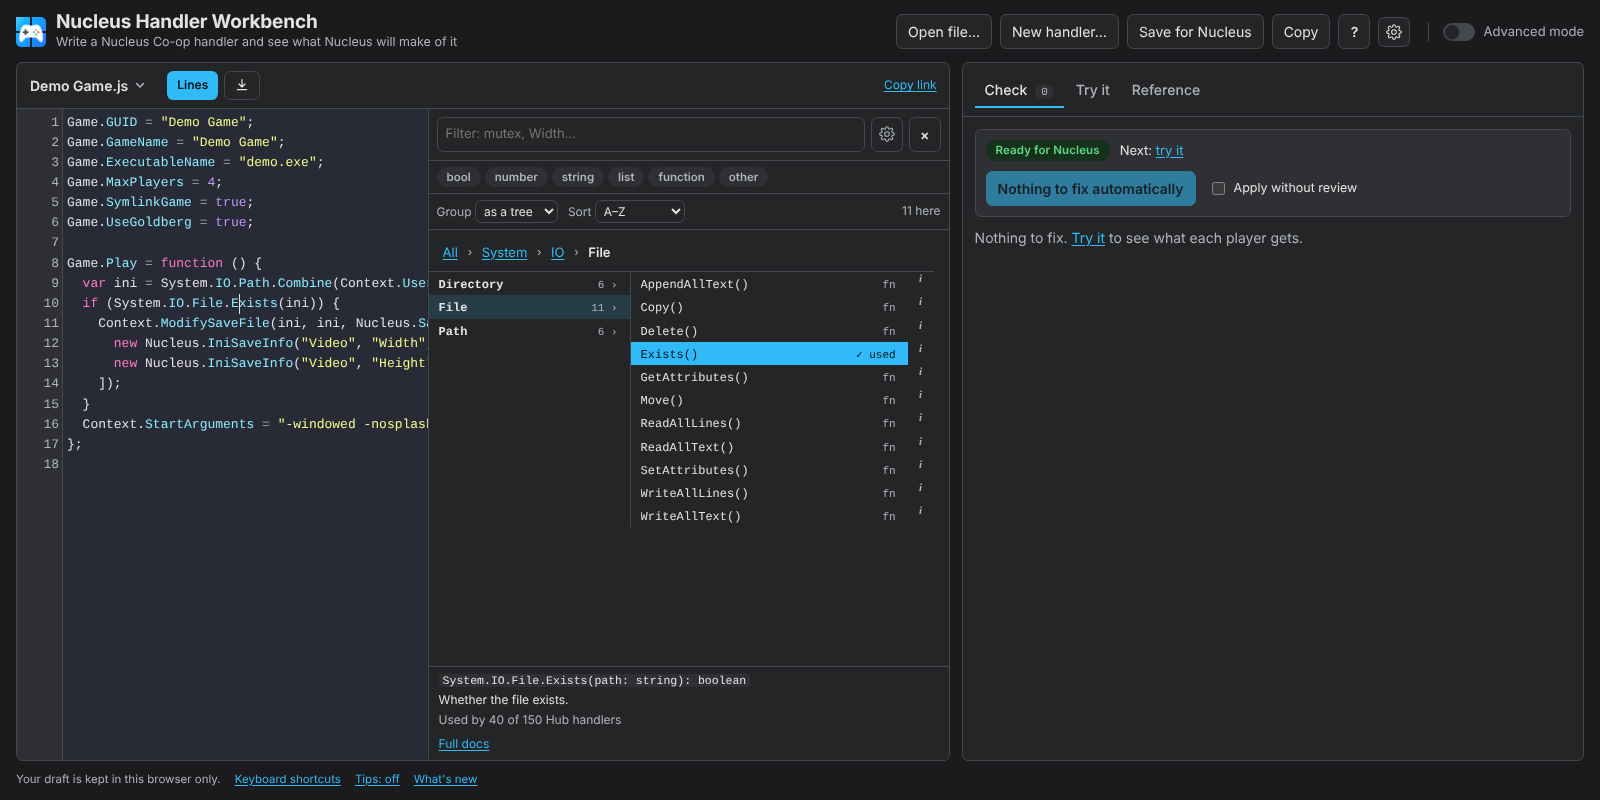
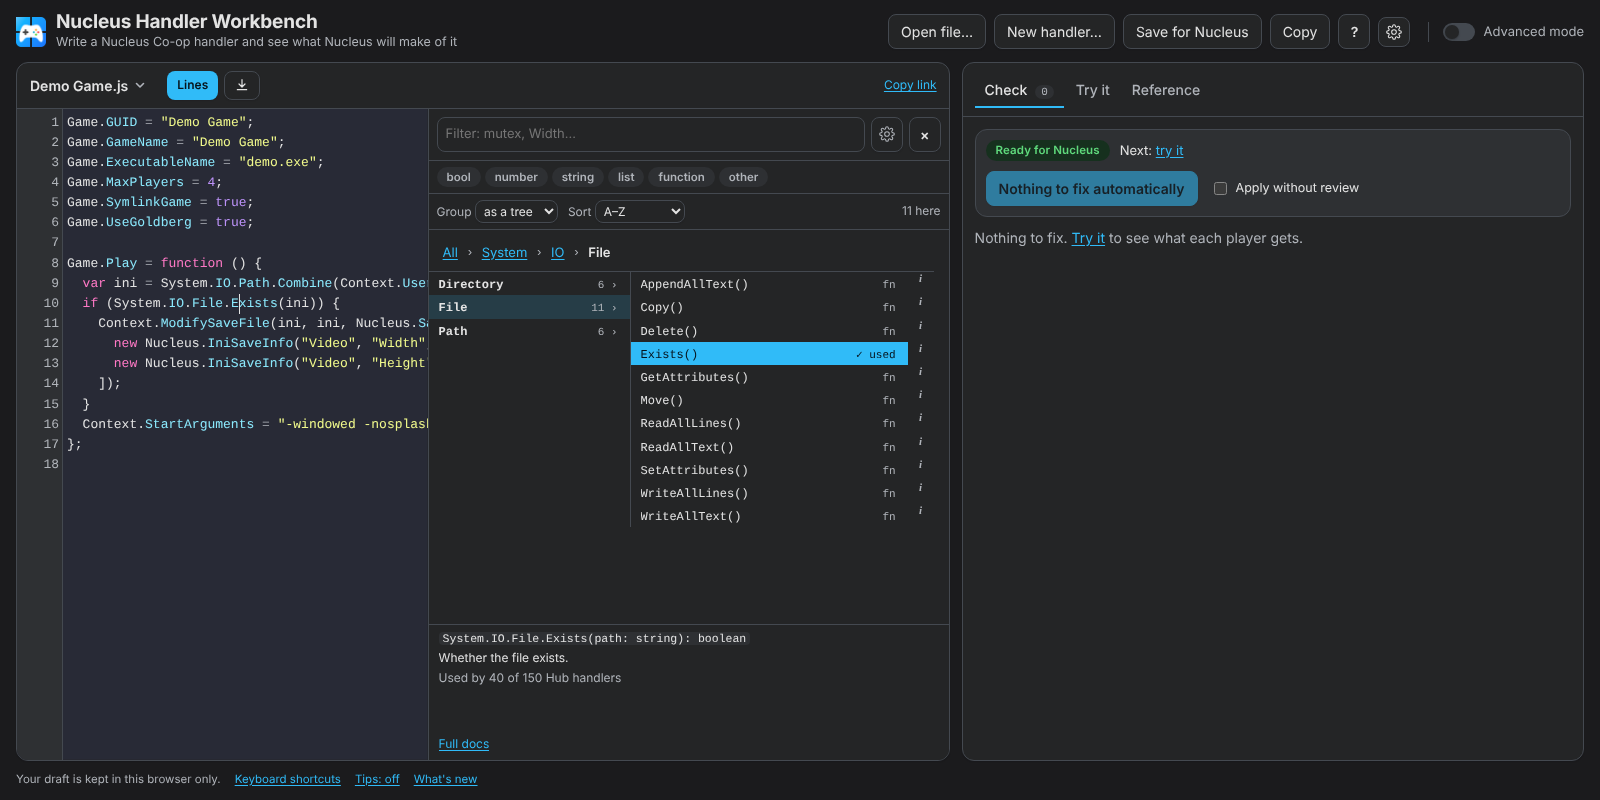
Redesign: shared tokens across the workbench and start page; Lines previews docs in Reference
One spacing/radius/type/elevation scale; softer panes, buttons, Check cards
with a rounded severity bar, dialogs with shadow and open motion (sheets slide
up on phones; reduced motion respected). Hovering a name in Lines with the
Reference tab open (wide screens, empty search) shows its docs there
(suggested by messenils). Screenshots retaken in light and dark.

Claude-Session: https://claude.ai/code/session_0176z2bCvwUXMSQ8ZHn5TiTv

Changed region(s): [[0.2812, 0.7812, 0.4688, 0.9062], [0.5625, 0.0312, 0.8438, 0.0625], [0.625, 0.2188, 0.8438, 0.25]]

diff --git a/playground/src/page.html b/playground/src/page.html
@@ -23,7 +23,14 @@ try { if (localStorage.getItem('nucleus-workbench-dev-site') === 'v3') document.
   --font-body: system-ui, -apple-system, "Segoe UI", Roboto, Ubuntu, Cantarell, "Noto Sans", sans-serif;
   --font-mono: SFMono-Regular, Menlo, Monaco, Consolas, "Liberation Mono", "Courier New", monospace;
   --display-stretch: 100%; --display-weight: 700;
-  --r-pane: 6.4px; --r-ctl: 6.4px; --r-tag: 999px;
+  --r-pane: 12px; --r-ctl: 8px; --r-tag: 999px;
+  /* One scale for the whole workbench and the start page: spacing, radius, type, elevation. */
+  --sp-1: 4px; --sp-2: 8px; --sp-3: 12px; --sp-4: 16px; --sp-5: 24px;
+  --r-sm: 6px; --r-lg: 14px;
+  --fs-xs: 11.5px; --fs-sm: 12.5px; --fs-md: 14px; --fs-lg: 17px;
+  --sh-1: 0 1px 2px rgba(15, 23, 42, .06), 0 1px 1px rgba(15, 23, 42, .03);
+  --sh-2: 0 24px 64px rgba(0, 0, 0, .28), 0 2px 8px rgba(0, 0, 0, .12);
+  --ease: cubic-bezier(.2, .9, .3, 1);
 }
 @media (prefers-color-scheme: dark) { :root:not([data-theme="light"]) {
   /* splitscreen.me, dark */
@@ -111,9 +118,11 @@ h1 { font: var(--display-weight) 19px/1.1 var(--font-display); font-stretch: var
 .toolbar { display: flex; flex-wrap: wrap; gap: 8px; margin-left: auto; align-items: center; }
 button, select, input { font: inherit; color: inherit; }
 a.btn { text-decoration: none; color: var(--fg); display: inline-block; }
-.btn, select { background: var(--surface); border: 1px solid var(--line); border-radius: var(--r-ctl); padding: 6px 11px; cursor: pointer; }
-.btn:hover, select:hover { border-color: var(--accent); }
+.btn, select { background: var(--surface); border: 1px solid var(--line); border-radius: var(--r-ctl); padding: 6px 12px; cursor: pointer; box-shadow: var(--sh-1); transition: background-color .12s, border-color .12s, filter .12s; }
+.btn:hover, select:hover { border-color: color-mix(in srgb, var(--fg) 28%, var(--line)); background-color: color-mix(in srgb, var(--fg) 4%, var(--surface)); }
+.btn:active { filter: brightness(.96); }
 .btn.primary { background: var(--accent); color: var(--accent-fg); border-color: var(--accent); font-weight: 600; }
+.btn.primary:hover { background: color-mix(in srgb, var(--accent) 88%, var(--fg)); border-color: transparent; }
 :focus-visible { outline: 2px solid var(--accent); outline-offset: 2px; }
 
 .main { flex: 1; min-height: 0; display: grid; grid-template-columns: minmax(0, 1.15fr) 12px minmax(0, 1fr); gap: 0; }
@@ -128,7 +137,7 @@ a.btn { text-decoration: none; color: var(--fg); display: inline-block; }
 .sheet-grip { display: none; }
 body.resizing, body.resizing * { cursor: col-resize !important; user-select: none !important; }
 body.resizing-v, body.resizing-v * { cursor: row-resize !important; user-select: none !important; }
-.pane { min-width: 0; min-height: 0; display: flex; flex-direction: column; background: var(--surface); border: 1px solid var(--line); border-radius: var(--r-pane); overflow: hidden; }
+.pane { min-width: 0; min-height: 0; display: flex; flex-direction: column; background: var(--surface); border: 1px solid var(--line); border-radius: var(--r-pane); overflow: hidden; box-shadow: var(--sh-1); }
 .pane-head { display: flex; align-items: center; gap: 10px; flex-wrap: wrap; padding: 8px 12px; border-bottom: 1px solid var(--line); min-height: 40px; box-sizing: border-box; }
 #status { display: flex; gap: 10px; align-items: center; flex-wrap: wrap; font-size: 12.5px; }
 .code-row { flex: 1; min-height: 0; display: flex; position: relative; }
@@ -304,7 +313,7 @@ body.resizing-v, body.resizing-v * { cursor: row-resize !important; user-select:
 .set-waka-row { display: flex; gap: 10px; align-items: center; flex-wrap: wrap; }
 #settings-dialog h2 { margin: 0 0 6px; font-size: 18px; }
 .set-sec { border-top: 1px solid var(--line); padding: 10px 0 8px; display: flex; flex-direction: column; gap: 4px; align-items: flex-start; }
-.set-sec h3 { margin: 0 0 2px; font-size: 13px; color: var(--muted); text-transform: uppercase; letter-spacing: .04em; }
+.set-sec h3 { margin: 0 0 2px; font-size: 13px; font-weight: 600; color: var(--muted); }
 .set-sec summary { cursor: pointer; font-weight: 600; color: var(--muted); }
 details.set-sec[open] summary { margin-bottom: 4px; }
 .set-radios { display: flex; flex-wrap: wrap; gap: 4px 16px; }
@@ -398,8 +407,10 @@ a { color: var(--accent); }
 .empty { color: var(--muted); }
 
 #problems { list-style: none; margin: 0; padding: 0; display: flex; flex-direction: column; gap: 8px; }
-.problem { display: grid; grid-template-columns: auto minmax(0, 1fr); gap: 10px; padding: 8px 10px; border: 1px solid var(--line); border-left: 3px solid var(--line); border-radius: var(--r-ctl); }
-.problem.error { border-left-color: var(--err); } .problem.warning { border-left-color: var(--warn); } .problem.info, .problem.hint { border-left-color: var(--info); }
+/* Check cards: soft cards with a rounded severity bar instead of a hard left border. */
+.problem { --sev: var(--line); position: relative; display: grid; grid-template-columns: auto minmax(0, 1fr); gap: 10px; padding: 10px 12px 10px 18px; border: 1px solid var(--line); border-radius: var(--r-pane); background: var(--surface); box-shadow: var(--sh-1); }
+.problem::before { content: ""; position: absolute; left: 7px; top: 10px; bottom: 10px; width: 3px; border-radius: 3px; background: var(--sev); }
+.problem.error { --sev: var(--err); } .problem.warning { --sev: var(--warn); } .problem.info, .problem.hint { --sev: var(--info); }
 .loc { font: 12px var(--font-mono); background: none; border: 0; color: var(--accent); cursor: pointer; padding: 0; height: fit-content; font-variant-numeric: tabular-nums; }
 .msg { overflow-wrap: anywhere; }
 .meta { display: flex; flex-wrap: wrap; gap: 6px; align-items: center; margin-top: 4px; }
@@ -442,8 +453,14 @@ table { border-collapse: collapse; width: 100%; }
 input.secret:not(.shown) { -webkit-text-security: disc; text-security: disc; }
 #open-body .entry .t .keys { float: right; display: inline-flex; gap: 3px; margin-left: 12px; font-weight: 400; }
 #open-body .entry .t .keys kbd { font: 11px var(--font-mono); padding: 1px 5px; border: 1px solid var(--line); border-radius: 4px; background: var(--surface-2); color: var(--muted); }
-dialog { border: 1px solid var(--line); border-radius: var(--r-pane); background: var(--surface); color: var(--fg); padding: 18px; width: min(520px, calc(100vw - 32px)); box-sizing: border-box; }
-dialog::backdrop { background: rgba(10, 15, 22, .45); }
+dialog { border: 1px solid var(--line); border-radius: var(--r-lg); background: var(--surface); color: var(--fg); padding: 20px; width: min(520px, calc(100vw - 32px)); box-sizing: border-box; box-shadow: var(--sh-2); }
+dialog::backdrop { background: rgba(10, 15, 22, .45); backdrop-filter: blur(2px); }
+/* Dialogs fade and rise a little as they open (sheets slide up on phones: see the 600px block). */
+@media (prefers-reduced-motion: no-preference) {
+  dialog[open] { animation: dialog-in .18s var(--ease); }
+  dialog[open]::backdrop { animation: backdrop-in .18s ease-out; }
+  @keyframes dialog-in { from { opacity: 0; transform: translateY(6px) scale(.985); } }
+}
 dialog h2 { font: 600 17px var(--font-display); margin: 0 0 12px; }
 .field { display: flex; flex-direction: column; gap: 4px; margin-bottom: 10px; }
 .field input { padding: 7px 9px; border: 1px solid var(--line); border-radius: var(--r-ctl); background: var(--code-bg); }
@@ -719,7 +736,7 @@ kbd { font: 11px var(--font-mono); border: 1px solid var(--line); border-bottom-
   /* Examples: the full height, for the long list */
   #open-dialog { width: 100vw; max-width: 100vw; top: 0; height: 100dvh; max-height: 100dvh; margin: 0; border-radius: 0; border: 0; padding: 0 0 env(safe-area-inset-bottom, 0px); box-shadow: none; }
   #open-dialog::before { display: none; }
-  @media (prefers-reduced-motion: no-preference) { #open-dialog[open] { animation-name: sheet-in; } @keyframes sheet-in { from { opacity: 0; transform: translateY(24px); } } }
+  @media (prefers-reduced-motion: no-preference) { dialog[open], #open-dialog[open] { animation-name: sheet-in; } @keyframes sheet-in { from { opacity: 0; transform: translateY(24px); } } }
   .open-head { padding: 4px 8px 4px 14px; }
   #open-close { padding: 8px 12px; font-size: 13px; }
   #open-close .k-esc, .open-foot { display: none; } #open-close .k-close { display: inline; }

diff --git a/playground/src/start.html b/playground/src/start.html
@@ -34,6 +34,10 @@ try { var m = localStorage.getItem('nucleus-workbench-dev-mode'); if (m === 'lig
   --accent: #0c76a5; --accent-fg: #fff; --brand: #10a3e8; --code-bg: #ebedf0;
   --font: system-ui, -apple-system, "Segoe UI", Roboto, Ubuntu, Cantarell, "Noto Sans", sans-serif;
   --mono: SFMono-Regular, Menlo, Monaco, Consolas, "Liberation Mono", monospace;
+  /* The workbench's scale (page.html): radius, elevation. */
+  --r-sm: 6px; --r-ctl: 8px; --r-pane: 12px; --r-lg: 14px;
+  --sh-1: 0 1px 2px rgba(15, 23, 42, .06), 0 1px 1px rgba(15, 23, 42, .03);
+  --sh-2: 0 12px 32px rgba(15, 23, 42, .12), 0 2px 6px rgba(15, 23, 42, .06);
 }
 @media (prefers-color-scheme: dark) { :root:not([data-theme="light"]) {
   --bg: #1b1b1d; --surface: #242526; --line: #444950; --fg: #e3e3e3; --muted: #b0b4ba;
@@ -49,30 +53,32 @@ h1 { font-size: clamp(28px, 5vw, 40px); line-height: 1.15; margin: 6px 0 12px; }
 h2 { font-size: 22px; margin: 44px 0 12px; }
 h3 { font-size: 17px; margin: 0 0 6px; }
 p { margin: 0 0 12px; }
-code, kbd { font-family: var(--mono); font-size: .9em; background: var(--code-bg); padding: 1px 5px; border-radius: 4px; }
+code, kbd { font-family: var(--mono); font-size: .9em; background: var(--code-bg); padding: 1px 5px; border-radius: var(--r-sm); }
 .kicker { display: inline-block; font-size: 13px; font-weight: 700; letter-spacing: .04em; text-transform: uppercase; color: var(--accent); }
 .lede { font-size: 18px; color: var(--muted); max-width: 62ch; }
 .ctas { display: flex; flex-wrap: wrap; gap: 10px; margin: 20px 0 8px; }
-.btn { display: inline-flex; align-items: center; min-height: 44px; padding: 10px 18px; border-radius: 6.4px; font-weight: 700; text-decoration: none; border: 1px solid var(--line); color: var(--fg); background: var(--surface); }
+.btn { display: inline-flex; align-items: center; min-height: 44px; padding: 10px 18px; border-radius: var(--r-ctl); font-weight: 700; text-decoration: none; border: 1px solid var(--line); color: var(--fg); background: var(--surface); box-shadow: var(--sh-1); transition: filter .12s, transform .12s, box-shadow .12s; }
 .btn.primary { background: var(--accent); color: var(--accent-fg); border-color: transparent; }
-.btn:hover { filter: brightness(1.08); }
+.btn:hover { filter: brightness(1.06); box-shadow: var(--sh-2); }
+@media (prefers-reduced-motion: no-preference) { .btn:hover { transform: translateY(-1px); } }
 .btn:focus-visible, a:focus-visible { outline: 3px solid var(--brand); outline-offset: 2px; }
 .small { font-size: 14px; color: var(--muted); }
 .shots { display: grid; grid-template-columns: repeat(2, minmax(0, 1fr)); gap: 16px; margin-top: 8px; }
 .after-shots { margin-top: 28px; }
-figure { margin: 0; background: var(--surface); border: 1px solid var(--line); border-radius: 8px; overflow: hidden; }
+figure { margin: 0; background: var(--surface); border: 1px solid var(--line); border-radius: var(--r-pane); overflow: hidden; box-shadow: var(--sh-1); }
 figure a { display: block; }
 figure img { display: block; width: 100%; height: auto; }
 figure a:focus-visible { outline-offset: -3px; }
 figcaption { padding: 10px 12px; font-size: 14px; color: var(--muted); }
 figcaption strong { color: var(--fg); }
 .cards { display: grid; grid-template-columns: repeat(3, minmax(0, 1fr)); gap: 16px; }
-.card { background: var(--surface); border: 1px solid var(--line); border-radius: 8px; padding: 16px; }
+.card { background: var(--surface); border: 1px solid var(--line); border-radius: var(--r-pane); padding: 18px; box-shadow: var(--sh-1); }
 .card p:last-child, .card ol:last-child { margin-bottom: 0; }
 ol, ul { margin: 0 0 12px; padding-left: 22px; }
 li { margin: 4px 0; }
 .facts { list-style: none; padding: 0; display: grid; gap: 8px; }
-.facts li { background: var(--surface); border: 1px solid var(--line); border-left: 3px solid var(--brand); border-radius: 6px; padding: 10px 12px; margin: 0; }
+.facts li { position: relative; background: var(--surface); border: 1px solid var(--line); border-radius: var(--r-pane); padding: 10px 14px 10px 20px; margin: 0; box-shadow: var(--sh-1); }
+.facts li::before { content: ""; position: absolute; left: 8px; top: 10px; bottom: 10px; width: 3px; border-radius: 3px; background: var(--brand); }
 footer { max-width: 980px; margin: 0 auto; padding: 16px 16px 40px; border-top: 1px solid var(--line); }
 main { padding-bottom: 32px; }
 @media (max-width: 760px) { .shots, .cards { grid-template-columns: 1fr; } main { padding-top: 20px; } }

diff --git a/playground/src/lines-ui.ts b/playground/src/lines-ui.ts
@@ -12,6 +12,8 @@ import { BEFORE_SESSION } from '@core/lifecycle';
 interface Deps {
   editor: any; // CodeMirror 5
   openReference: (path: string) => void;
+  /** Shows a name's docs in the Reference tab when it's open and free (wide screens); true if it did. */
+  previewReference?: (path: string) => boolean;
 }
 
 const LINES_KEY = 'nucleus-workbench-lines';
@@ -32,7 +34,7 @@ const store = {
   },
 };
 
-export function initLines({ editor, openReference }: Deps) {
+export function initLines({ editor, openReference, previewReference }: Deps) {
   const LINES = allLines();
   const kinds = new Set<Kind>();
   const DEFAULTS = {
@@ -78,6 +80,12 @@ export function initLines({ editor, openReference }: Deps) {
       return;
     }
     info.append(text('code', '', l.sig));
+    // With Reference open beside the list (desktop), the full docs go there, where there's room.
+    const path = l.path.replace(/^new /, '');
+    if (previewReference && previewReference(path)) {
+      info.append(text('div', 'muted', 'Its docs are on the right, in Reference.'));
+      return;
+    }
     if (l.doc) info.append(text('div', '', l.doc));
     const facts: string[] = [];
     if (l.default !== undefined) facts.push(`Default: ${l.default}`);

diff --git a/playground/src/tips.ts b/playground/src/tips.ts
@@ -139,6 +139,7 @@ const PITFALLS = T('Pitfall', [
 const SHORTCUTS = T('Shortcut', [
   { id: 's-palette', text: 'Ctrl+Shift+P (or F1) opens the command palette, as in VS Code: format, fix, Try it, theme and the rest, each with its shortcut.' },
   { id: 's-open', text: 'Ctrl+P (or Ctrl+K) opens the examples, templates and Hub handlers. Type `>` there to switch to commands.', action: { label: 'Examples', run: 'examples' } },
+  { id: 'f-lines-ref', text: 'Open the Reference tab, then point at names in Lines (Ctrl+B): each one\'s full docs show in Reference, on a wide screen.', action: { label: 'Lines', run: 'lines' } },
   { id: 's-open-keys', text: 'In Open (Ctrl+K), the arrow keys move between tiles, templates and Hub rows; Home and End jump to the first and last. Hover a Hub handler\'s icons for players, keyboards and mice, and downloads.', action: { label: 'Examples', run: 'examples' } },
   { id: 's-format', text: 'Shift+Alt+F formats the code: indentation and spacing only. Nothing moves to another line, so Nucleus reads it exactly as before.' },
   { id: 's-f8', text: 'F8 jumps to the next problem, Shift+F8 to the one before. Ctrl+. shows the fixes for the line you’re on.' },

diff --git a/playground/src/app.ts b/playground/src/app.ts
@@ -1442,6 +1442,14 @@ const lines = initLines({
     ($('#api-q') as HTMLInputElement).value = path;
     renderApi(path);
   },
+  // Hovering a name in Lines while Reference is the open tab (and its search is empty) shows the
+  // name's docs there. Suggested by messenils.
+  previewReference: (path) => {
+    if (window.matchMedia('(max-width: 860px)').matches || ($('#panel-api') as HTMLElement).hidden) return false;
+    if (($('#api-q') as HTMLInputElement).value.trim()) return false;
+    renderApi(path);
+    return true;
+  },
 });
 
 const tips = initTips({

diff --git a/CHANGELOG.md b/CHANGELOG.md
@@ -16,6 +16,8 @@ How to write it (people and AI agents read this, and the workbench shows it):
 
 ### 🛠 Improved
 
+- **One look across the workbench and the start page.** Rounder panes, cards and dialogs with soft shadows, buttons that react when you point at them, Check cards with a rounded colour bar, and dialogs that fade in (or slide up on phones). The sizes come from one shared scale, and nothing moves if your device asks for less motion.
+- **Lines shows docs in Reference.** With the Reference tab open on a wide screen, pointing at a name in Lines shows its full docs there, not squeezed under the list. Suggested by messenils.
 - **A cleaner Open dialog.** Ctrl+K now opens a palette near the top of the screen: the start actions as tiles with icons, engine templates as chips, and Hub handlers as rows with the game's initials, players, downloads and a clean or warning badge (hover it to see what it means). Searching groups the results with a count and highlights what you typed, and the arrow keys move through every layout.
 
   <details><summary>Screenshot</summary>
@@ -38,7 +40,7 @@ How to write it (people and AI agents read this, and the workbench shows it):
 
 ### 🙏 Thanks
 
-- **messenils** for the video of Lines flickering, and for spotting that `Game.SetupSse` is never called.
+- **messenils** for the video of Lines flickering, the idea of showing its docs in Reference, and for spotting that `Game.SetupSse` is never called.
 
 ---
 
